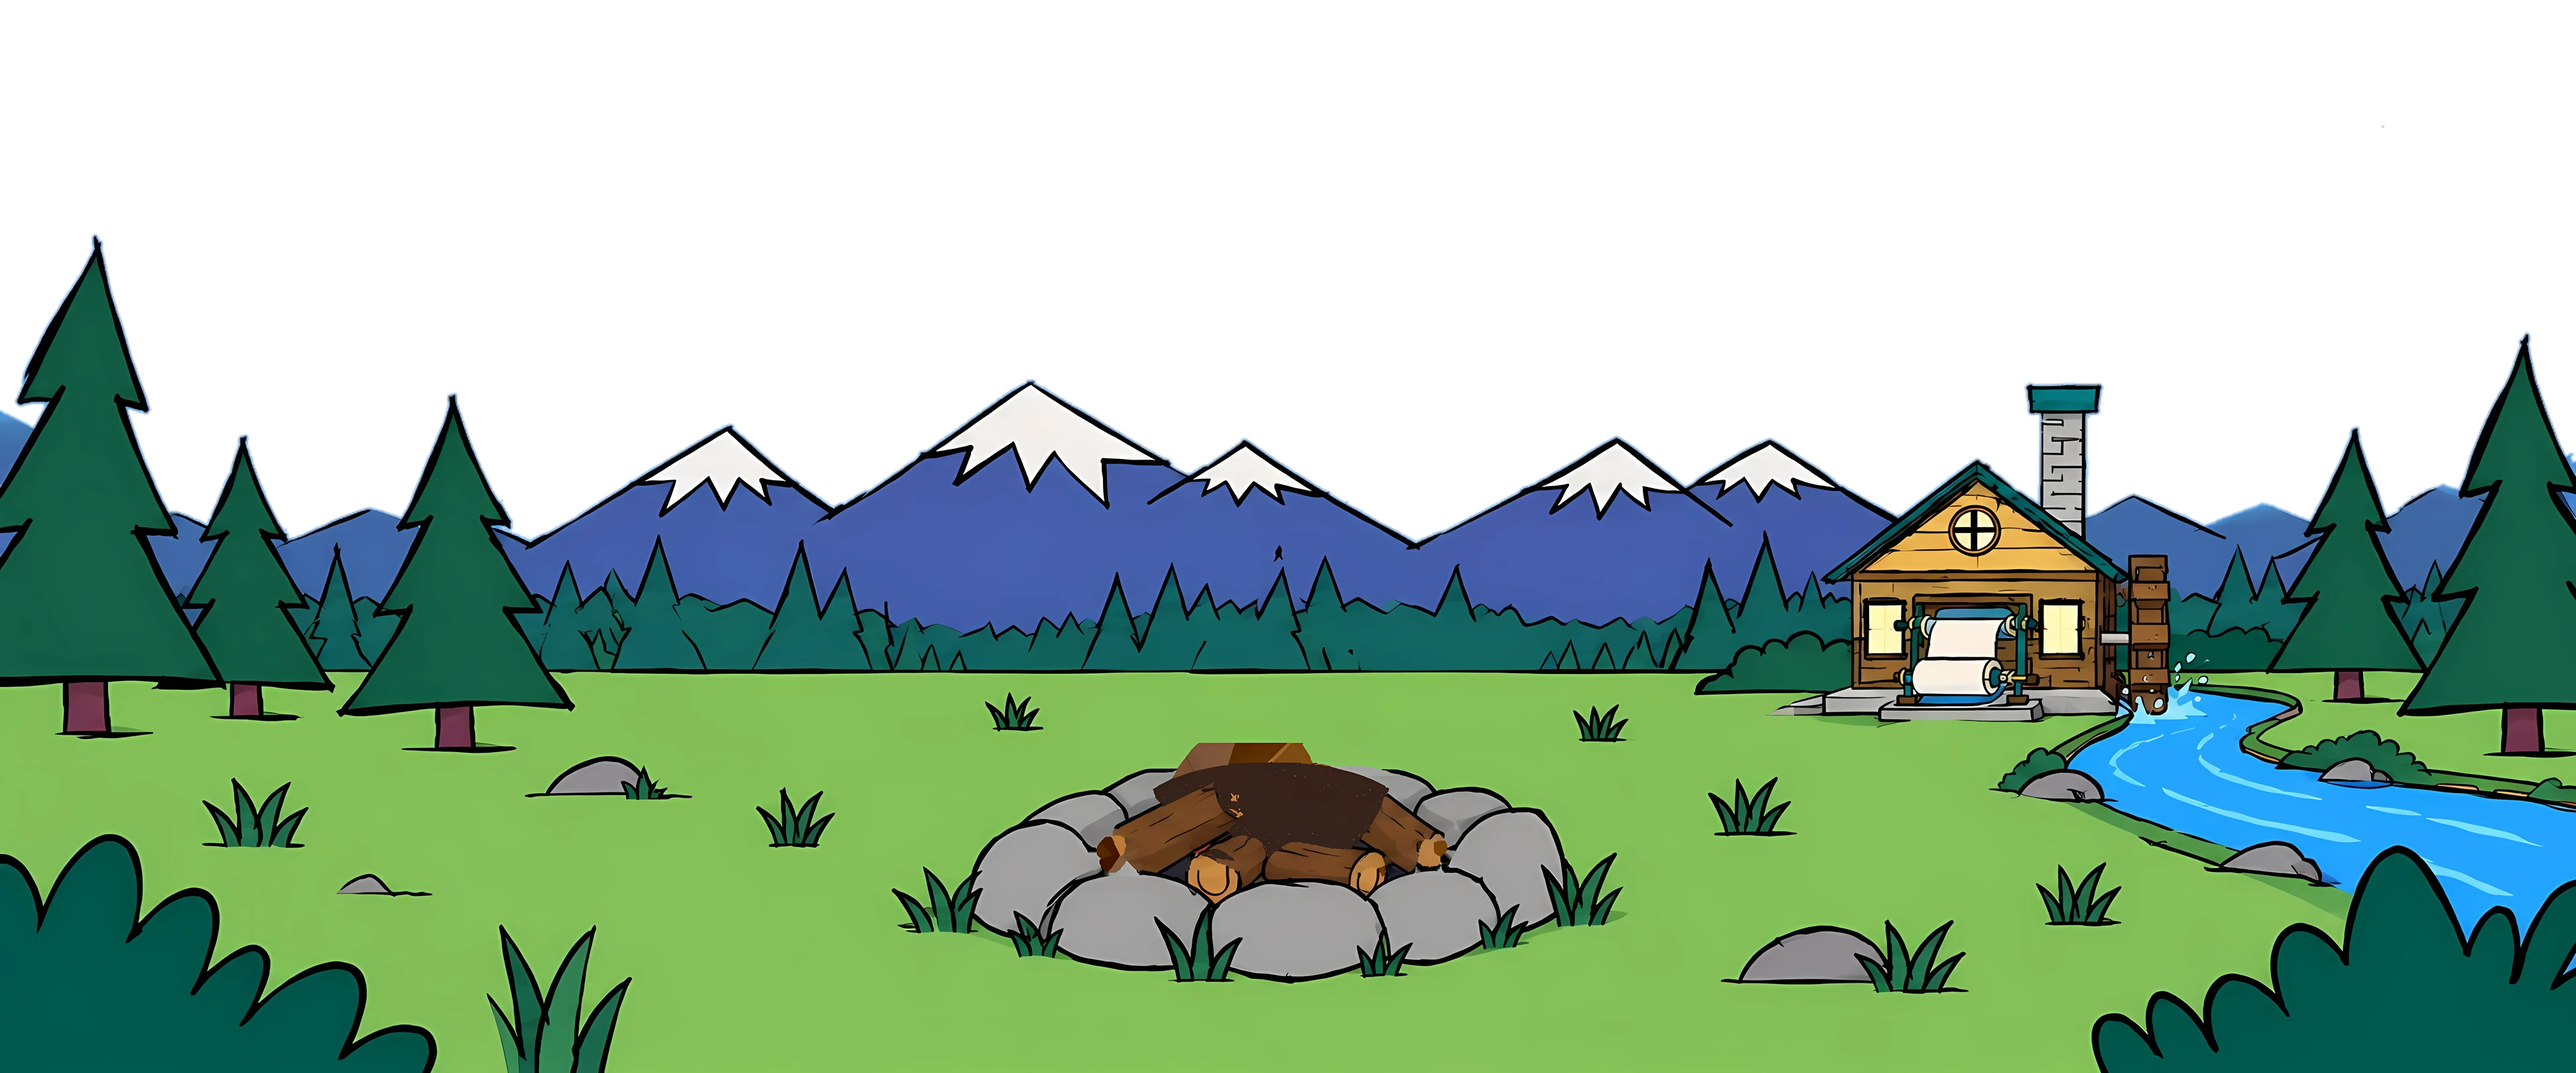
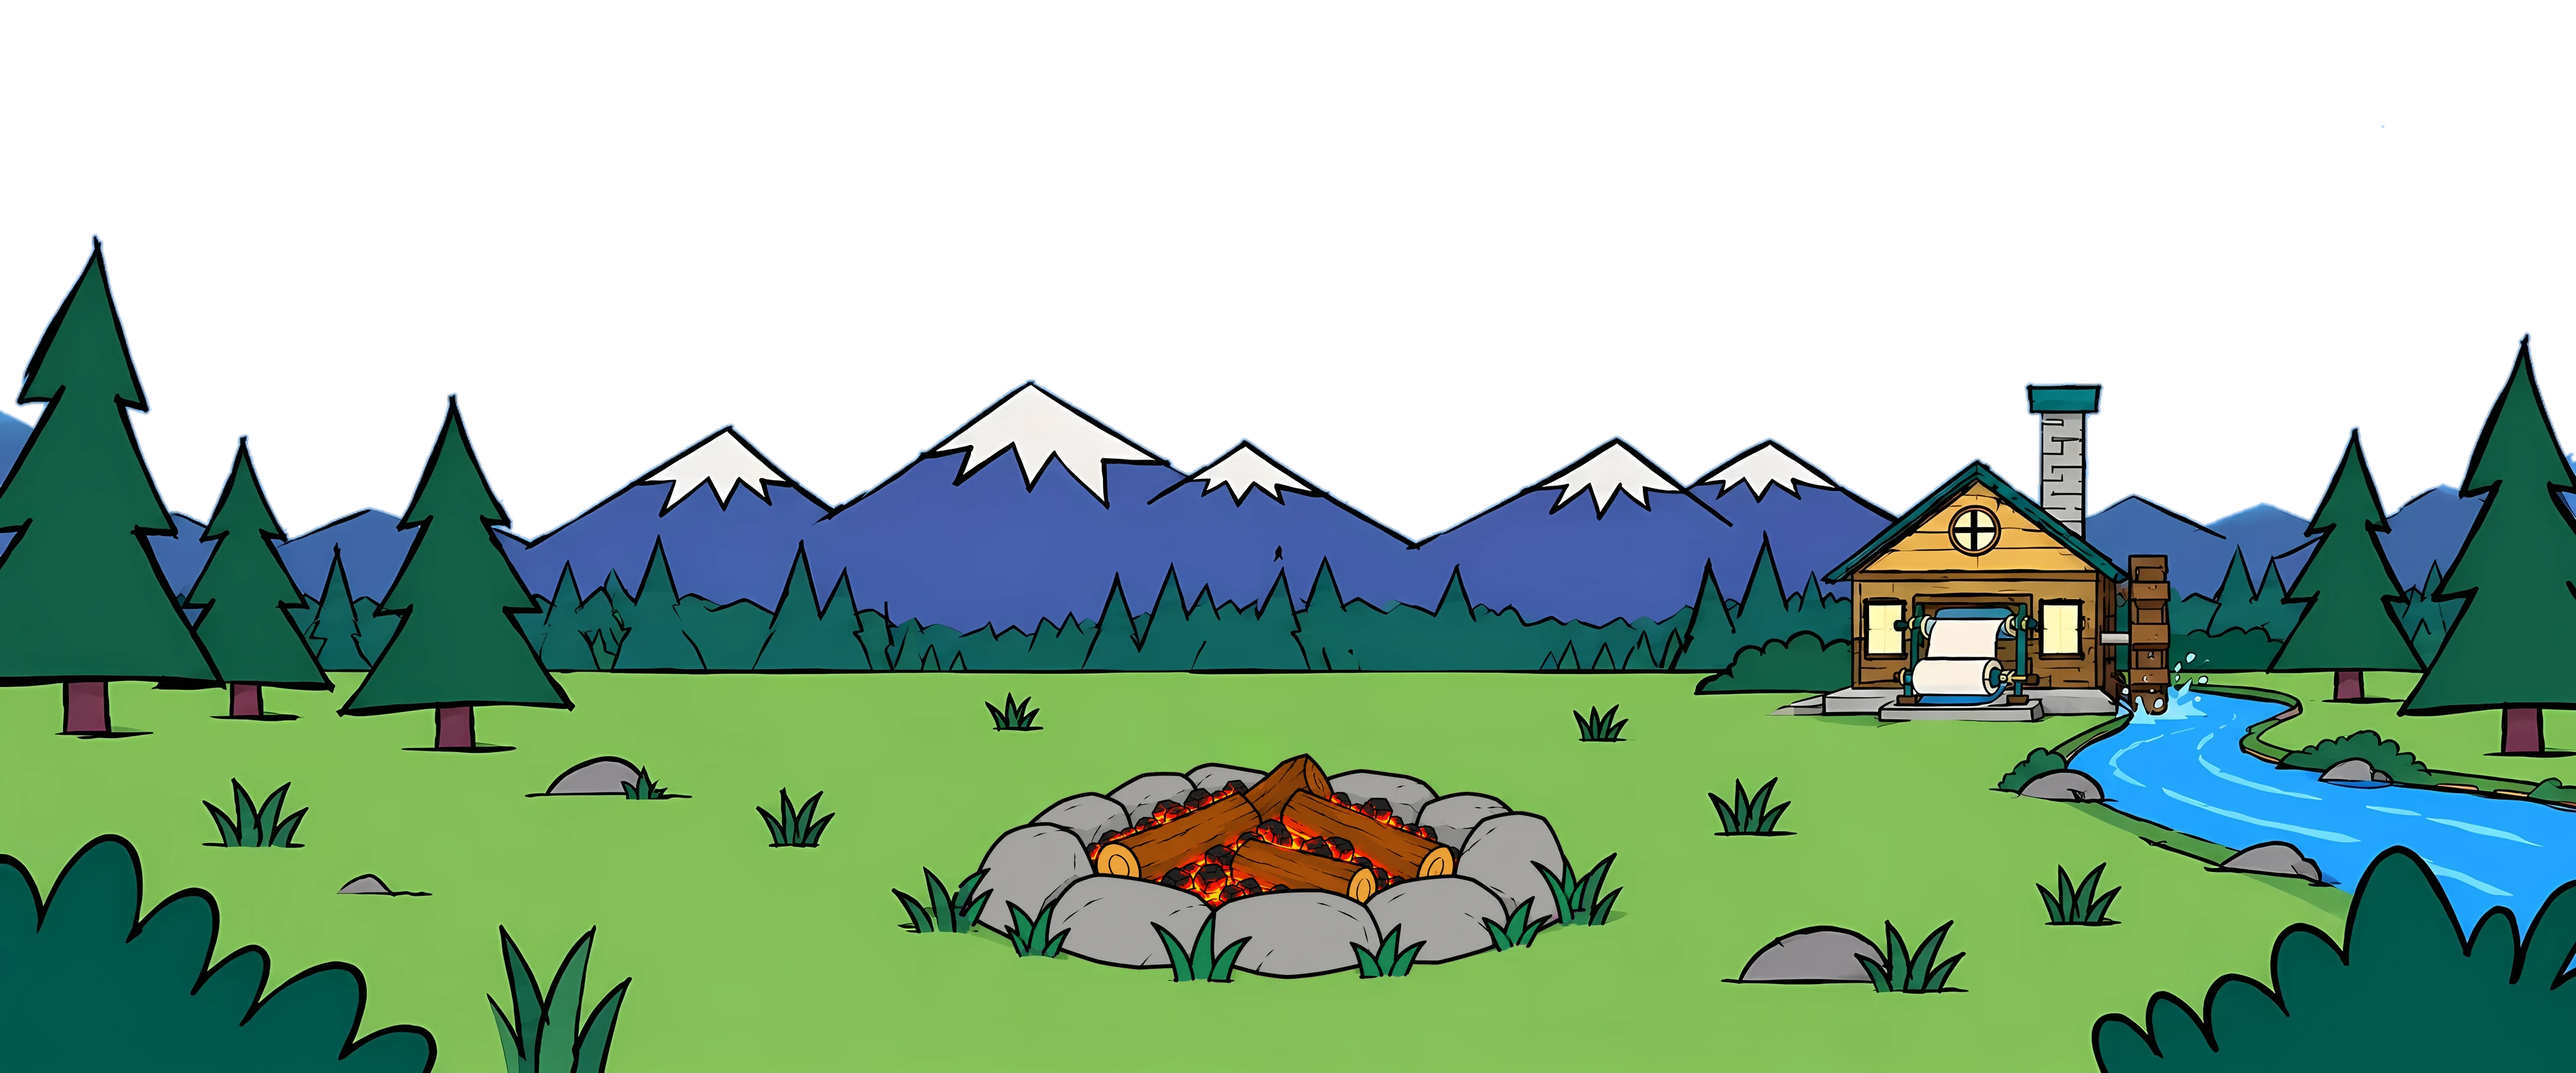
New fire pit art from the owner, set into the painting
The owner's clean pit (stones, four logs, a bed of hot coals) is keyed off
its magenta background, scaled to the old ring and set into the painting at
the same spot; the old pit is gone (grass fills anything the new ring
doesn't cover). The coals breathe with a slow flicker; the three front
logs are drawn back over the flames so the fire burns between them. The
separate log images and their glow/melt work are removed. Smoke only when
the fire is completely out: white, rising high, until it's relit.

Claude-Session: https://claude.ai/code/session_01LEzX9WUx8sWcSwwRyLeaEz

Changed region(s): [[0.3738, 0.6799, 0.6231, 0.9271]]

diff --git a/web/src/components/scene.ts b/web/src/components/scene.ts
@@ -33,10 +33,10 @@ export interface SceneView { fireX: number; fireTop: number; width: number; heig
 
 // The art is painted at twice the size it is drawn (AR), so it stays sharp on big and high-density screens.
 const AR = 2, aw = (i: { width: number }) => i.width / AR, ah = (i: { height: number }) => i.height / AR;
-const W = 1942, H = 809, ZOOM = 1.1, FIRE = { x: 958, y: 605 }, PIT = { x: 958, y: 634 }, LOGS_AT = { x: 817, y: 584 };
+const W = 1942, H = 809, ZOOM = 1.1, FIRE = { x: 958, y: 605 }, PIT = { x: 958, y: 634 }, COALS = { x: 822, y: 579.5 }, PITART = { x: 721, y: 522 };
 const BASE = import.meta.env.BASE_URL;
 const THUNDER = ["clap1", "sr1", "sr2", "sr3", "sr4", "dry1", "dry2", "dry3", "dry4"];
-const IMAGES = ["a-land.webp", "a-water.webp", "a-logs.webp", "a-logs-lit.webp", "a-tufts.webp", "a-canopy.webp", ...PAINT.clouds.map((c) => c.f),
+const IMAGES = ["a-land.webp", "a-water.webp", "a-coals.webp", "a-logs-front.webp", "a-tufts.webp", "a-canopy.webp", ...PAINT.clouds.map((c) => c.f),
   ...["bend", "backA", "backB", "frontC", "frontD"].map((n) => `deer-${n}.webp`),
   ...["body", "ears", "backNear", "backFar", "frontNear", "frontFar"].map((n) => `rabbit-${n}.webp`),
   ...["body", "tail", "backNear", "backFar", "frontNear", "frontFar"].map((n) => `squirrel-${n}.webp`),
@@ -274,20 +274,12 @@ export function createScene(canvas: HTMLCanvasElement, onView?: (v: SceneView) =
       ctx.fillStyle = "#7a4a22"; ctx.fillRect(-33, -9, 66, 18); ctx.fillStyle = "#c9955a"; ctx.beginPath(); ctx.ellipse(33, 0, 5, 9, 0, 0, 7); ctx.fill(); ctx.restore();
     }
   }
-  // the logs glow warm where they meet the fire: an orange tint, masked to the logs, strongest at the pit's middle
-  let tl: HTMLCanvasElement | null = null, hcv: HTMLCanvasElement | null = null, lc: HTMLCanvasElement | null = null, lb: HTMLCanvasElement | null = null;
-  function tintedLogs(img: HTMLImageElement) {
-    if (tl) return tl; tl = mk(img.width, img.height); const x = tl.getContext("2d")!;
-    x.drawImage(img, 0, 0); x.globalCompositeOperation = "source-atop"; x.fillStyle = "rgb(236,96,28)"; x.fillRect(0, 0, img.width, img.height); return tl;
-  }
-  // Smoke off the pit that grows as the fire dies down: it covers the pit behind the logs where the flames no longer
-  // reach, dark grey while the fire still burns and nearly white once it's out, and climbs high into the sky. While the
-  // fire burns it rises from behind the logs; a dead fire's smoke pours over them.
+  let fl: HTMLCanvasElement | null = null;
+  // When the fire is completely out, white smoke pours off the coals and climbs high into the sky (until it's relit).
   function drawSmoke(back: boolean, dt: number, fs: number, dk: number) {
     if (back) {
       outK += ((fs <= 0.02 ? 1 : 0) - outK) * Math.min(1, dt * (fs <= 0.02 ? 2.5 : 0.8));
-      const cover = Math.max(outK, Math.min(1, Math.max(0, (0.7 - fs) / 0.6)));
-      wacc += dt * 13 * cover;
+      wacc += dt * 13 * (fs <= 0.02 ? outK : 0);
       const g = Math.round((90 + 150 * Math.min(1, Math.max(0, 1 - fs / 0.45))) * (1 - 0.12 * dk) / 10) * 10;
       while (wacc > 1) { wacc--; white.push({ x: PIT.x - 118 + Math.random() * 236, y: PIT.y - 12 - Math.random() * 40, r: 38 + Math.random() * 26, life: 0, max: 17 + Math.random() * 6, ph: Math.random() * 6, g: Math.max(60, Math.min(250, g + Math.round((Math.random() - 0.5) * 3) * 10)), back: fs > 0.02 }); }
       for (let i = white.length - 1; i >= 0; i--) {
@@ -302,35 +294,22 @@ export function createScene(canvas: HTMLCanvasElement, onView?: (v: SceneView) =
     }
     ctx.globalAlpha = 1;
   }
-  function drawFire(t: number, dt: number, fs: number, flick: number, dk: number) {
+  function drawFire(dt: number, fs: number, flick: number, dk: number) {
     if (fs > 0.01 && glDraw) {
       glDraw(firePhase, flick, fs);
       ctx.save(); ctx.globalCompositeOperation = "screen"; ctx.drawImage(glc, 558, -226); ctx.restore();
       if (dk < 0.6) { ctx.save(); ctx.globalAlpha = 0.28 * (1 - dk / 0.6); ctx.drawImage(glc, 558, -226); ctx.restore(); }
     }
     drawSmoke(true, dt, fs, dk);
-    heat += ((fs > 0.01 ? 0.35 + 0.65 * Math.min(1, fs) : 0) - heat) * Math.min(1, dt * (fs > 0.01 ? 2 : 0.12)); // logs keep glowing a while after it dies
-    const img = assets["a-logs.webp"], litImg = assets["a-logs-lit.webp"];
-    if (img) { // built on their own canvas so the glow stays on the logs; the ends that sit in the flames melt into them (a-logs-lit)
-      lc ??= mk(img.width, img.height); lb ??= mk(img.width, img.height);
-      const B = lb.getContext("2d")!, L = lc.getContext("2d")!, lit = litImg ? 1 : 0; // the logs never change; when the fire dies, smoke covers the pit
-      B.globalAlpha = 1; B.globalCompositeOperation = "source-over"; B.clearRect(0, 0, lb.width, lb.height);
-      if (lit > 0) B.drawImage(litImg, 0, 0);
-      if (lit < 1) { B.globalAlpha = 1 - lit; B.drawImage(img, 0, 0); B.globalAlpha = 1; }
-      L.globalAlpha = 1; L.globalCompositeOperation = "source-over"; L.clearRect(0, 0, lc.width, lc.height); L.drawImage(lb, 0, 0);
-      if (heat > 0.02) {
-        hcv ??= mk(img.width, img.height); const x = hcv.getContext("2d")!;
-        x.globalCompositeOperation = "source-over"; x.clearRect(0, 0, hcv.width, hcv.height); x.drawImage(tintedLogs(img), 0, 0);
-        const gx = (PIT.x - LOGS_AT.x) * AR, gy = (PIT.y - 30 - LOGS_AT.y) * AR, rad = (55 + 55 * Math.min(1, heat)) * AR;
-        const g = x.createRadialGradient(gx, gy, 0, gx, gy, rad); g.addColorStop(0, "rgba(0,0,0,1)"); g.addColorStop(0.55, "rgba(0,0,0,0.75)"); g.addColorStop(1, "rgba(0,0,0,0)");
-        x.globalCompositeOperation = "destination-in"; x.fillStyle = g; x.fillRect(0, 0, hcv.width, hcv.height);
-        L.globalAlpha = Math.min(1, heat * (0.8 + 0.2 * vnoise(t * 1.3 + 5))); L.drawImage(hcv, 0, 0);
-        L.globalCompositeOperation = "lighter"; L.globalAlpha = 0.25 * heat * flick; L.drawImage(hcv, 0, 0);
-        L.globalCompositeOperation = "destination-in"; L.globalAlpha = 1; L.drawImage(lb, 0, 0); // the glow never shows where a log has melted away
-        L.globalCompositeOperation = "source-over";
-      }
-      ctx.drawImage(lc, LOGS_AT.x, LOGS_AT.y, aw(img), ah(img));
+    const front = assets["a-logs-front.webp"];
+    if (front && fs > 0.01) { // the front logs sit in front of the flames: the painted logs, cut out by their mask, drawn back over the fire
+      fl ??= mk(front.width, front.height); const x = fl.getContext("2d")!;
+      x.globalCompositeOperation = "source-over"; x.clearRect(0, 0, fl.width, fl.height);
+      x.drawImage(land, PITART.x * R, PITART.y * R, aw(front) * R, ah(front) * R, 0, 0, fl.width, fl.height);
+      x.globalCompositeOperation = "destination-in"; x.drawImage(front, 0, 0, fl.width, fl.height);
+      ctx.drawImage(fl, PITART.x, PITART.y, aw(front), ah(front));
     }
+    heat += ((fs > 0.01 ? 0.35 + 0.65 * Math.min(1, fs) : 0) - heat) * Math.min(1, dt * (fs > 0.01 ? 2 : 0.12)); // logs keep glowing a while after it dies
     // smoke from a big fire, lit warm from below at night
     const top = flameTop(Math.max(fs, 0.2));
     smacc += dt * (fs > 0.4 ? 3 + 9 * fs : 0);
@@ -791,6 +770,11 @@ export function createScene(canvas: HTMLCanvasElement, onView?: (v: SceneView) =
       gl = lx.createRadialGradient(1470, 470, 10, 1470, 470, 230); gl.addColorStop(0, `rgba(255,150,70,${mill})`); gl.addColorStop(1, "rgba(255,120,50,0)");
       lx.fillStyle = gl; lx.fillRect(1200, 200, 560, 500);
     }
+    const coals = assets["a-coals.webp"];
+    if (coals) { // the hot coals breathe: a slow flicker, brightest while the fire burns, still glowing a while after
+      const k = (0.25 + 0.75 * heat) * (0.55 + 0.3 * vnoise(t * 1.7) + 0.15 * vnoise(t * 6.1 + 3));
+      lx.globalCompositeOperation = "lighter"; lx.globalAlpha = Math.min(1, k); lx.drawImage(coals, COALS.x, COALS.y, aw(coals), ah(coals)); lx.globalAlpha = 1;
+    }
     lx.globalCompositeOperation = "destination-in"; lx.drawImage(assets["a-land.webp"], 0, 0, W, H); lx.globalCompositeOperation = "source-over";
     ctx.save(); ctx.translate(FIRE.x, H); ctx.scale(ZOOM, ZOOM); ctx.translate(-FIRE.x, -H);
     ctx.drawImage(land, 0, 0, W, H);
@@ -817,7 +801,7 @@ export function createScene(canvas: HTMLCanvasElement, onView?: (v: SceneView) =
       ctx.drawImage(water, 0, 0, W, H);
     }
     drawWheel(frame);
-    drawFire(t, dt, fs, flick, dark);
+    drawFire(dt, fs, flick, dark);
     drawFlyingLogs(t);
     drawScraps(t);
     ctx.restore();
